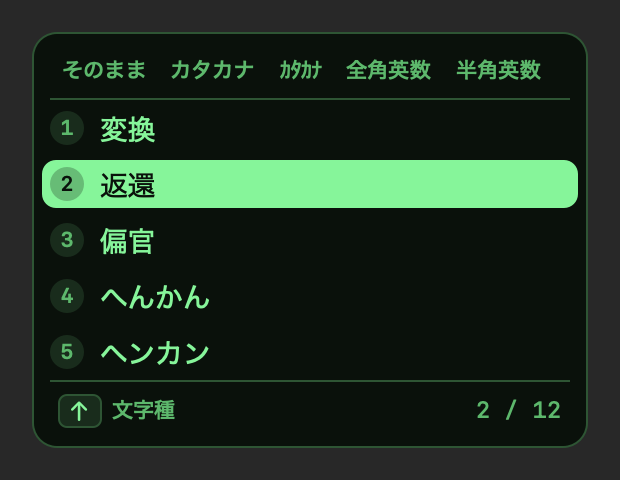
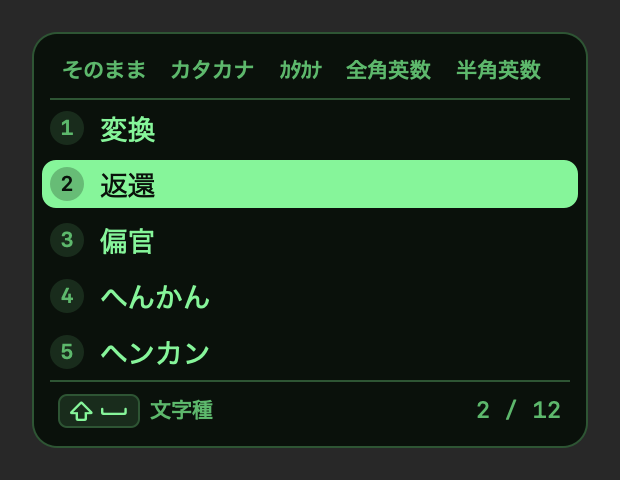
fix(core): 一覧の足元のキーの案内を，キー設定の表とキーの案内の表示の設定に従わせる

Changed region(s): [[0.0919, 0.8125, 0.3677, 0.9062]]

diff --git a/core/Tests/HajimeIPCTests/FooterHintsTests.swift b/core/Tests/HajimeIPCTests/FooterHintsTests.swift
@@ -1,0 +1,84 @@
+import HajimeApplication
+import HajimeDomain
+import HajimeIPC
+import Testing
+
+@Suite("候補ウィンドウの足元のキーの案内(Windows)")
+struct FooterHintsTests {
+    private let panel = LatticePanel(columns: [LatticePanel.Column(text: "今日は", isFocused: true, isUncertain: false)])
+
+    @Test("キーは Windows の書き方にする")
+    func label() {
+        #expect(FooterHints.label(of: KeyStroke(.left, shift: true)) == "Shift+←")
+        #expect(FooterHints.label(of: KeyStroke(.character("k"), control: true)) == "Ctrl+K")
+        #expect(FooterHints.label(of: KeyStroke(.hankakuZenkaku)) == "半角/全角")
+        #expect(FooterHints.pair("Shift+←", "Shift+→") == "Shift+←→")
+    }
+
+    @Test("キー設定の表のキーで案内を作り，出さない設定なら空")
+    func hints() {
+        var settings = DefaultSettings.settings
+        let hints = FooterHints.make(for: panel, settings: settings)
+        #expect(hints.contains { $0.label == "候補" && !$0.keys.isEmpty })
+        #expect(hints.contains { $0.label == "打ち直し" && $0.keys == FooterHints.label(of: KeyStroke(.backspace, shift: true)) })
+        settings.showsKeyHints = false
+        #expect(FooterHints.make(for: panel, settings: settings).isEmpty)
+    }
+
+    @Test("連想の一覧では単語を選ぶ・意味を移る・戻るだけを案内し，見出しと連想の知らせを送る")
+    func association() {
+        var association = panel
+        association.association = AssociationHeading(headword: "速い", label: "速度", group: 1, groupCount: 3)
+        association.associationHint = AssociationHint(key: "Ctrl+Tab", label: "連想")
+        let hints = FooterHints.make(for: association, settings: DefaultSettings.settings)
+        #expect(hints.map(\.label) == ["選択", "意味", "戻る"])
+        let map = WireBranchMap(association, hints: hints)
+        #expect(map.association == WireAssociationHeading(headword: "速い", label: "速度", group: 1, groupCount: 3))
+        #expect(map.associationHint == "連想")
+        #expect(map.associationKey == "Ctrl+Tab")
+    }
+
+    @Test("一覧では，候補にいれば文字種の行へ移るキー，文字種の行にいれば字種を選ぶキーと候補へ戻るキーを，キー設定の表から案内する")
+    func list() {
+        let variants = ScriptVariant.allCases.map { CandidatePanel.Variant(label: $0.label, isAvailable: true) }
+        var list = CandidatePanel(variants: variants, selectedVariant: nil, entries: [.init(text: "変換", annotation: nil)], selectedEntry: 0,
+                                  focus: .candidate, position: 1, total: 1, note: nil)
+        var settings = DefaultSettings.settings
+        #expect(FooterHints.make(for: list, settings: settings) == [WireKeyHint(keys: "Shift+Space", label: "文字種")])
+
+        // 表で前の候補を ↑ だけにすると，案内も ↑ にする
+        settings.keymap.entries.removeAll { $0.command == .previousCandidate }
+        settings.keymap.entries.append(KeymapEntry(.converting, KeyStroke(.up), .previousCandidate))
+        #expect(FooterHints.make(for: list, settings: settings) == [WireKeyHint(keys: "↑", label: "文字種")])
+
+        list.focus = .variants
+        list.selectedVariant = 0
+        #expect(FooterHints.make(for: list, settings: settings) == [WireKeyHint(keys: "←→", label: "選択"), WireKeyHint(keys: "Space", label: "候補")])
+
+        // 文字種の行が無い一覧(入力中の候補の窓など)には文字種の案内を出さない
+        let plain = CandidatePanel(variants: [], selectedVariant: nil, entries: [.init(text: "変換", annotation: nil)], selectedEntry: 0,
+                                   focus: .candidate, position: 1, total: 1, note: nil)
+        #expect(FooterHints.make(for: plain, settings: settings).isEmpty)
+
+        settings.showsKeyHints = false
+        #expect(FooterHints.make(for: list, settings: settings).isEmpty)
+    }
+
+    @Test("連想の一覧の一覧表示でも，単語を選ぶ・意味を移る・戻るだけを案内する")
+    func associationList() {
+        var list = CandidatePanel(variants: [], selectedVariant: nil, entries: [.init(text: "早い", annotation: nil)], selectedEntry: 0,
+                                  focus: .candidate, position: 1, total: 1, note: nil)
+        list.association = AssociationHeading(headword: "速い", label: "速度", group: 1, groupCount: 3)
+        #expect(FooterHints.make(for: list, settings: DefaultSettings.settings).map(\.label) == ["選択", "意味", "戻る"])
+    }
+
+    @Test("文節を区切っているときは区切る操作だけを案内する")
+    func split() {
+        var column = LatticePanel.Column(text: "問題がある", isFocused: true, isUncertain: true)
+        column.split = .init(pieces: ["問題", "が", "ある"])
+        let hints = FooterHints.make(for: LatticePanel(columns: [column]), settings: DefaultSettings.settings)
+        #expect(hints == [WireKeyHint(keys: "1–2", label: "区切り"), WireKeyHint(keys: "Esc", label: "取り消し")])
+        column.split = .init(pieces: ["問題", "がある"])
+        #expect(FooterHints.make(for: LatticePanel(columns: [column]), settings: DefaultSettings.settings).first?.keys == "1")
+    }
+}

diff --git a/core/Sources/HajimeIPC/WireTranslation.swift b/core/Sources/HajimeIPC/WireTranslation.swift
@@ -162,7 +162,9 @@ extension WireTextStyle {
 }
 
 extension WireCandidateList {
-    public init(_ panel: CandidatePanel) {
+    /// hints は足元のキーの案内(FooterHints)．キーの名前は OS の書き方なのでエンジンの側で作って渡す．
+    /// 案内が無ければ送らない(案内を知らない前の版の候補ウィンドウとも話せるよう，省ける項目にしてある)
+    public init(_ panel: CandidatePanel, hints: [WireKeyHint] = []) {
         self.init(
             variants: panel.variants.map { WireCandidateVariant(label: $0.label, isAvailable: $0.isAvailable) },
             selectedVariant: panel.selectedVariant.map(UInt32.init(clamping:)),
@@ -184,6 +186,7 @@ extension WireCandidateList {
             position: UInt32(clamping: panel.position),
             total: UInt32(clamping: panel.total),
             note: panel.note.map(WireNote.init),
+            hints: hints.isEmpty ? nil : hints,
             association: panel.association.map(WireAssociationHeading.init),
             associationHint: panel.associationHint?.label,
             associationKey: panel.associationHint?.key,
@@ -306,9 +309,9 @@ public struct RoutedActions: Sendable, Equatable {
         self.host = host
     }
 
-    /// paletteCellSize は設定のパレットのマスの大きさ(パレットを出すときに添える)
+    /// hints と listHints は分岐図と一覧の足元のキーの案内(FooterHints)．paletteCellSize は設定のパレットのマスの大きさ(パレットを出すときに添える)
     public init(_ actions: [ClientAction], anchor: WireRect?, hints: (LatticePanel) -> [WireKeyHint] = { _ in [] },
-                paletteCellSize: Double = DefaultSettings.paletteCellSize) {
+                listHints: (CandidatePanel) -> [WireKeyHint] = { _ in [] }, paletteCellSize: Double = DefaultSettings.paletteCellSize) {
         for action in actions {
             switch action {
             case .commit(let text):
@@ -320,7 +323,7 @@ public struct RoutedActions: Sendable, Equatable {
             case .selectMode(let mode):
                 edits.append(.selectMode(mode: WireInputMode(mode)))
             case .showCandidates(let panel):
-                ui.append(.showCandidates(list: WireCandidateList(panel), anchor: anchor))
+                ui.append(.showCandidates(list: WireCandidateList(panel, hints: listHints(panel)), anchor: anchor))
             case .showLattice(let panel):
                 ui.append(.showBranchMap(map: WireBranchMap(panel, hints: hints(panel)), anchor: anchor))
             case .hideCandidates:

diff --git a/core/Sources/HajimeIPC/EngineService.swift b/core/Sources/HajimeIPC/EngineService.swift
@@ -84,6 +84,7 @@ public final class EngineService {
     /// コマンドを動かす(R-22)．エンジンのプロセスで動かし，DLL(入力先のアプリの中)には任せない
     private let runCommand: (LauncherCommand) -> Void
     private let hints: (LatticePanel, Settings) -> [WireKeyHint]
+    private let listHints: (CandidatePanel, Settings) -> [WireKeyHint]
     /// 打ち間違いの訂正を別に求めるもの(Zenzai があるとき)．nil なら InputSession が変換器で求める
     private let typoService: (any TypoCorrecting)?
     private let now: () -> ContinuousClock.Instant
@@ -116,6 +117,7 @@ public final class EngineService {
 
     public init(makeSession: @escaping () -> InputSession, settings: any SettingsStoring, ui: @escaping (WireUiCommand) -> Void,
                 openSettings: @escaping () -> Void, hints: @escaping (LatticePanel, Settings) -> [WireKeyHint] = { _, _ in [] },
+                listHints: @escaping (CandidatePanel, Settings) -> [WireKeyHint] = { _, _ in [] },
                 typoService: (any TypoCorrecting)? = nil, now: @escaping () -> ContinuousClock.Instant = { ContinuousClock.now },
                 sync: (any SyncControlling)? = nil, files: (any SettingsFileHandling)? = nil,
                 services: SettingsServices = SettingsServices(), runCommand: @escaping (LauncherCommand) -> Void = { _ in },
@@ -133,6 +135,7 @@ public final class EngineService {
         self.ui = ui
         self.openSettings = openSettings
         self.hints = hints
+        self.listHints = listHints
     }
 
     public func connect(isCandidateWindow: Bool = false, isSettingsApp: Bool = false) -> ConnectionID {
@@ -615,7 +618,8 @@ public final class EngineService {
 
     private func edit(_ actions: [ClientAction], handled: Bool, session: UInt32, anchor: WireRect?) -> WireResponseBody {
         let current = settings.current
-        let routed = RoutedActions(actions, anchor: anchor, hints: { [hints] in hints($0, current) }, paletteCellSize: current.paletteCellSize)
+        let routed = RoutedActions(actions, anchor: anchor, hints: { [hints] in hints($0, current) },
+                                   listHints: { [listHints] in listHints($0, current) }, paletteCellSize: current.paletteCellSize)
         routed.ui.forEach(ui)
         for command in routed.ui {
             switch command {

diff --git a/apps/macos/Hajime/UI/CandidateView.swift b/apps/macos/Hajime/UI/CandidateView.swift
@@ -14,8 +14,10 @@ final class CandidateView: NSView {
             needsDisplay = true
         }
     }
-    /// 足元の案内に出すキーの割り当て(連想の一覧のとき)
+    /// 足元の案内に出すキーの割り当て
     var keys = KeymapPreset.standard.keymap { didSet { needsDisplay = true } }
+    /// 足元にキーの案内を出すか(設定の「キーの案内を表示」)
+    var showsHints = true { didSet { needsDisplay = true } }
     var theme = ResolvedTheme.resolveStatic { didSet { needsDisplay = true } }
     var fontSize: CGFloat = Size.fontSize { didSet { needsDisplay = true } }
     /// 第 1 候補と選んでいる候補以外の濃さ．出した直後は薄くし，すぐに濃くする(ephemeral adaptation)．
@@ -370,15 +372,15 @@ final class CandidateView: NSView {
     }
 
     private func footerContent(for panel: CandidatePanel) -> Footer {
+        // キーはキー設定の表で，変換中にそのコマンドに割り当てた最初のキー(R-17)．どの案内を出すかは core の表(IndicatorLabels)
+        var hints = showsHints ? KeyHint.make(IndicatorLabels.listHints(for: panel), keymap: keys) : []
         if panel.association != nil {
-            return Footer(hints: UIStrings.Association.hints(for: keys), note: panel.note, position: position(of: panel))
+            return Footer(hints: hints, note: panel.note, position: position(of: panel))
         }
         if panel.focus == .variants {
             let position = UIStrings.Candidate.variantsPosition(panel.selectedVariant.map { $0 + 1 } ?? 1, panel.variants.count)
-            return Footer(hints: UIStrings.Candidate.variantsHints, note: panel.note, position: position)
+            return Footer(hints: hints, note: panel.note, position: position)
         }
-        // 文字種の行が無い一覧(文字種の行を出さない設定など)では，文字種の案内を出さない
-        var hints = panel.variants.isEmpty ? [] : UIStrings.Candidate.candidatesHints
         var associationText: String?
         if let hint = panel.associationHint {
             if let key = hint.key { hints.append(KeyHint(key: key, label: hint.label)) } else { associationText = hint.label }

diff --git a/core/Sources/HajimeApplication/Session/IndicatorLabels.swift b/core/Sources/HajimeApplication/Session/IndicatorLabels.swift
@@ -1,6 +1,6 @@
 import HajimeDomain
 
-/// モードの札と足元の案内の文言．macOS の候補ウィンドウと Windows のエンジン(BranchHints)が同じ表を使う
+/// モードの札と足元の案内の文言．macOS の候補ウィンドウと Windows のエンジン(FooterHints)が同じ表を使う
 public enum IndicatorLabels {
     /// 日本語入力と英数のモードの札
     public static func label(for mode: InputMode) -> String {
@@ -71,6 +71,25 @@ public enum IndicatorLabels {
         // 変換中の Esc を直前の変更の取り消しにした表では，そのキーで戻る
         Hint(.cancel, "戻る", fallback: .undoConversionEdit),
     ]
+
+    /// 一覧で候補を選んでいるときの足元の案内．先頭から前の候補へ進むと文字種の行に移る(R-03)
+    public static let candidateHints: [Hint] = [
+        Hint(.previousCandidate, "文字種"),
+    ]
+
+    /// 一覧で文字種の行を選んでいるときの足元の案内．左右で字種を選び，次の候補で候補に戻る
+    public static let variantHints: [Hint] = [
+        Hint(.previousSegment, .nextSegment, "選択"),
+        Hint(.nextCandidate, "候補"),
+    ]
+
+    /// 一覧の足元の案内．連想の一覧は連想の案内，文字種の行にいれば字種を選ぶ案内，候補にいれば文字種の行へ移る案内．
+    /// 文字種の行が無い一覧(文字種の行を出さない設定，入力中の候補の窓)では，文字種の案内を出さない
+    public static func listHints(for panel: CandidatePanel) -> [Hint] {
+        if panel.association != nil { return associationHints }
+        if panel.focus == .variants { return variantHints }
+        return panel.variants.isEmpty ? [] : candidateHints
+    }
 
     /// 文節を区切っているときの案内(数字で区切る位置を選び，Esc でやめる)．count は区切れる位置の数
     public static func splitHints(count: Int) -> [(key: String, label: String)] {

diff --git a/core/Sources/HajimeIPC/FooterHints.swift b/core/Sources/HajimeIPC/FooterHints.swift
@@ -1,16 +1,26 @@
 import HajimeApplication
 import HajimeDomain
 
-public enum BranchHints {
+/// 候補ウィンドウの足元のキーの案内(Windows)．文言とコマンドの並びは macOS と同じ表(IndicatorLabels)．
+/// キーはキー設定の表で，変換中にそのコマンドに割り当てた最初のキー(R-17)．キーの案内を出さない設定なら空
+public enum FooterHints {
+    /// 分岐図の足元の案内．連想の一覧では，単語を選ぶ・意味を移る・戻るだけを案内する
     public static func make(for panel: LatticePanel, settings: Settings) -> [WireKeyHint] {
         guard settings.showsKeyHints else { return [] }
-        let keymap = settings.keymap
-        // 文言とコマンドの並びは macOS と同じ表(IndicatorLabels)．連想の一覧では，単語を選ぶ・意味を移る・戻るだけを案内する
         if let split = panel.columns.first(where: \.isFocused)?.split, panel.association == nil {
             return splitHints(count: split.pieces.count - 1)
         }
-        let table = panel.association == nil ? IndicatorLabels.branchHints : IndicatorLabels.associationHints
-        return table.map { hint in
+        return make(panel.association == nil ? IndicatorLabels.branchHints : IndicatorLabels.associationHints, keymap: settings.keymap)
+    }
+
+    /// 一覧の足元の案内
+    public static func make(for panel: CandidatePanel, settings: Settings) -> [WireKeyHint] {
+        guard settings.showsKeyHints else { return [] }
+        return make(IndicatorLabels.listHints(for: panel), keymap: settings.keymap)
+    }
+
+    private static func make(_ table: [IndicatorLabels.Hint], keymap: Keymap) -> [WireKeyHint] {
+        table.map { hint in
             let strokes = hint.strokes(in: keymap)
             let first = strokes.first.map(label(of:)) ?? ""
             return WireKeyHint(keys: hint.second == nil ? first : pair(first, strokes.second.map(label(of:)) ?? ""), label: hint.label)

diff --git a/apps/macos/Hajime/Input/ClientActionPresenter.swift b/apps/macos/Hajime/Input/ClientActionPresenter.swift
@@ -55,7 +55,7 @@ final class ClientActionPresenter {
             case .showCandidates(let panel):
                 note.hide()
                 candidatePanel.show(panel, caret: panelAnchor(of: client, at: panel.anchor), theme: ThemeChoice(settings.current), fontSize: settings.current.candidateFontSize,
-                                    keys: settings.current.keymap)
+                                    keys: settings.current.keymap, showsHints: settings.current.showsKeyHints)
             case .showLattice(let panel):
                 note.hide()
                 candidatePanel.showLattice(panel, caret: panelAnchor(of: client, at: nil), theme: ThemeChoice(settings.current), fontSize: settings.current.candidateFontSize,

diff --git a/core/Sources/HajimeDomain/Settings/Settings.swift b/core/Sources/HajimeDomain/Settings/Settings.swift
@@ -110,7 +110,7 @@ public struct Settings: Sendable, Equatable {
     public var prefersKatakana = true
     /// 一覧の上に字種の行を出す(R-03)
     public var showsVariantRow = true
-    /// 分岐図の足元にキーの案内(候補・文節・文節の長さ・区切り)を出す．入力中の候補の窓の，選び始めるキーの案内も
+    /// 候補ウィンドウの足元にキーの案内を出す(分岐図の候補・文節・文節の長さ・区切り，一覧の文字種，入力中の候補の窓の選び始めるキー)
     public var showsKeyHints = true
     /// 番号キーで候補を選ぶ
     public var numberKeySelection = true

diff --git a/apps/macos/Hajime/UI/UIStrings.swift b/apps/macos/Hajime/UI/UIStrings.swift
@@ -4,8 +4,6 @@ import HajimeDomain
 /// 画面に出す文言の置き場所．多言語にするときは Localizable.xcstrings に移す
 enum UIStrings {
     enum Candidate {
-        static let candidatesHints = [KeyHint(key: "↑", label: "文字種")]
-        static let variantsHints = [KeyHint(key: "←→", label: "選択"), KeyHint(key: "↓", label: "候補")]
         static func variantsPosition(_ index: Int, _ total: Int) -> String { "文字種 \(index) / \(total)" }
         static func position(_ index: Int, _ total: Int) -> String { "\(index) / \(total)" }
         /// 語の意味のカードで，同音語の札の前に置く名前

diff --git a/apps/macos/Hajime/UI/CandidatePanelController.swift b/apps/macos/Hajime/UI/CandidatePanelController.swift
@@ -35,8 +35,9 @@ final class CandidatePanelController {
         window.ignoresMouseEvents = false
     }
 
-    func show(_ panel: CandidatePanel, caret: NSRect, theme: ThemeChoice, fontSize: Double, keys: Keymap) {
+    func show(_ panel: CandidatePanel, caret: NSRect, theme: ThemeChoice, fontSize: Double, keys: Keymap, showsHints: Bool) {
         view.keys = keys
+        view.showsHints = showsHints
         view.theme = ResolvedTheme.resolve(theme)
         view.fontSize = CGFloat(fontSize)
         view.maximumWidth = Self.maximumWidth(caret: caret)

diff --git a/core/Sources/hajime-engine-host/main.swift b/core/Sources/hajime-engine-host/main.swift
@@ -212,7 +212,8 @@ func run() -> Int32 {
             process.executableURL = settingsApp
             try? process.run()
         },
-        hints: { BranchHints.make(for: $0, settings: $1) },
+        hints: { FooterHints.make(for: $0, settings: $1) },
+        listHints: { FooterHints.make(for: $0, settings: $1) },
         typoService: typoService,
         sync: sync,
         files: files,

diff --git a/apps/windows/crates/candidate-ui/src/scene/list.rs b/apps/windows/crates/candidate-ui/src/scene/list.rs
@@ -68,18 +68,14 @@ fn footer(list: &CandidateList) -> Footer {
     if list.focus == CandidateFocus::Variants {
         let index = list.selected_variant.map_or(1, |index| index + 1);
         return Footer {
-            hints: strings::variants_hints(),
+            hints: list.hints.clone().unwrap_or_default(),
             note: list.note.clone(),
             position: strings::variants_position(index, list.variants.len() as u32),
             association_hint: None,
         };
     }
-    // 文字種の行が無い一覧(連想の一覧や，文字種の行を出さない設定)では，文字種の案内を出さない
-    let mut hints = if list.association.is_some() || list.variants.is_empty() {
-        Vec::new()
-    } else {
-        strings::candidates_hints()
-    };
+    // キーの案内はエンジンが，キー設定の表と「キーの案内を表示」の設定に従って作る(FooterHints)
+    let mut hints = list.hints.clone().unwrap_or_default();
     let mut association_hint = None;
     if let Some(label) = &list.association_hint {
         match &list.association_key {
@@ -522,6 +518,14 @@ mod tests {
             total: 30,
             note: None,
             meaning_placement: None,
+            hints: Some(vec![hint("↑", "文字種")]),
+        }
+    }
+
+    fn hint(keys: &str, label: &str) -> KeyHint {
+        KeyHint {
+            keys: keys.into(),
+            label: label.into(),
         }
     }
 
@@ -689,6 +693,8 @@ mod tests {
             let mut browsing = list(None);
             browsing.shows_numbers = Some(false);
             browsing.variants.clear();
+            // 文字種の行が無い一覧には，エンジンが文字種の案内を送らない(FooterHints)
+            browsing.hints = None;
             let scene = candidate_list(&browsing, &look, &Fixed);
             let texts = texts_of(&scene);
             assert!(texts.contains(&"変換".to_string()));
@@ -878,6 +884,7 @@ mod tests {
         let mut variants = list(None);
         variants.focus = CandidateFocus::Variants;
         variants.selected_variant = Some(0);
+        variants.hints = Some(vec![hint("←→", "選択"), hint("Space", "候補")]);
         let scene = candidate_list(&variants, &Look::new(&theme, 15.0), &Fixed);
         let texts = texts(&scene);
         assert!(texts.contains(&("文字種 1 / 1".into(), theme.text_muted)));
